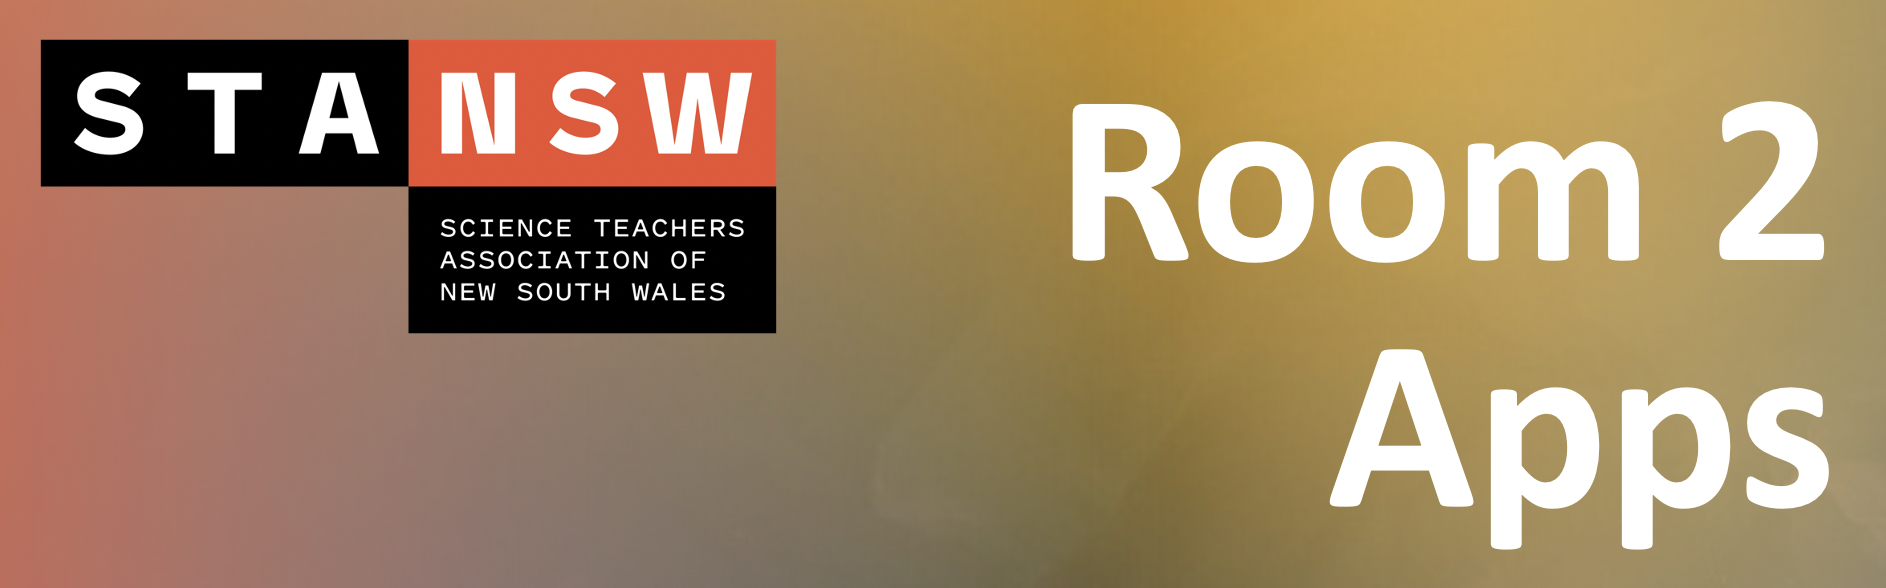
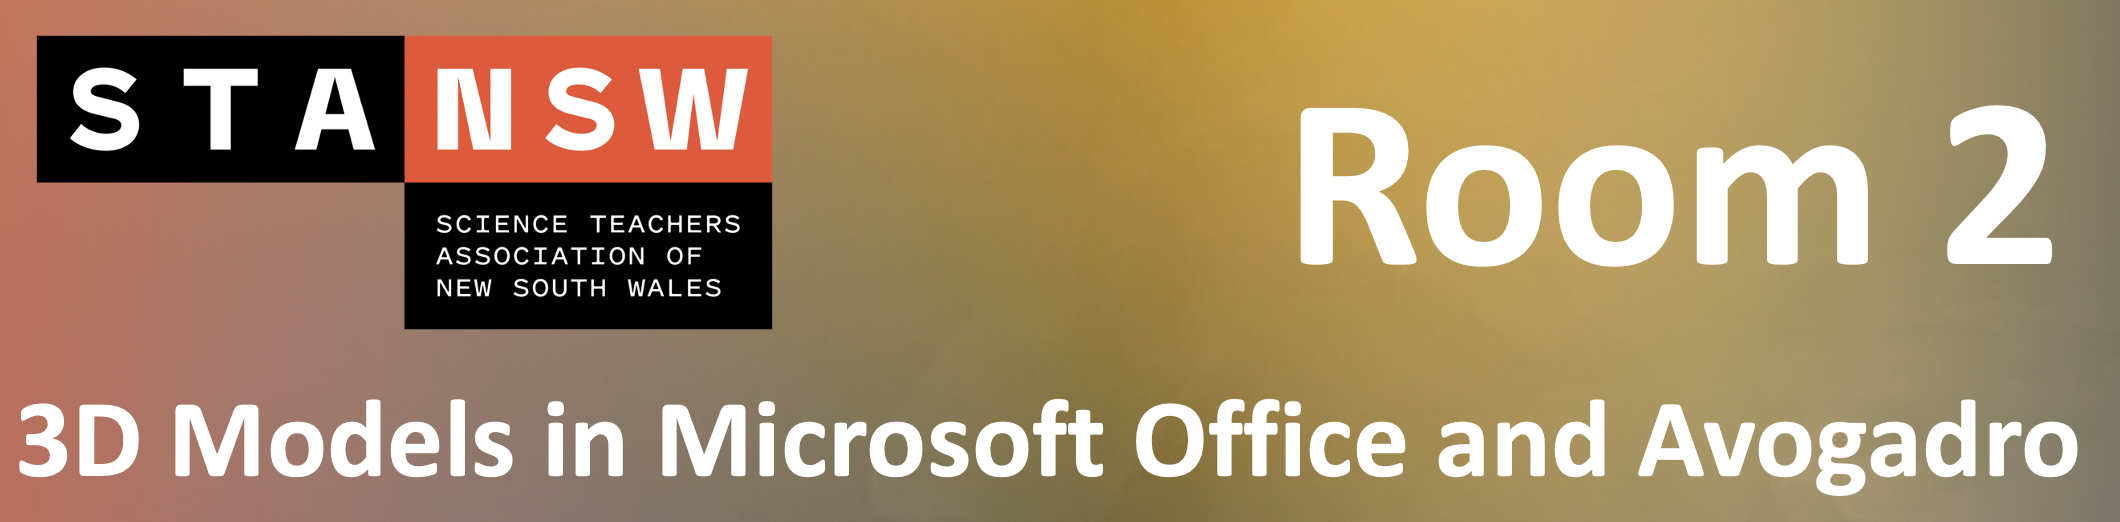
Re-compilation.

diff --git a/docs/meet-the-presenters.html b/docs/meet-the-presenters.html
@@ -101,10 +101,6 @@
 <div id="meet-the-presenters" class="section level1 hasAnchor">
 <h1>Meet The Presenters<a href="meet-the-presenters.html#meet-the-presenters" class="anchor-section" aria-label="Anchor link to header"></a></h1>
 <p><img src="images/Presenters.png" width="947" /></p>
-<div id="reyne-pullen" class="section level2 unlisted unnumbered hasAnchor">
-<h2>Reyne Pullen<a href="meet-the-presenters.html#reyne-pullen" class="anchor-section" aria-label="Anchor link to header"></a></h2>
-<p>Dr Reyne Pullen is currently employed as an Education-focused lecturer in the School of Chemistry, University of Sydney. Recently awarded the 2021 RACI Chemistry Educator of the Year, Reyne has experience in delivering online and blended learning experiences, and designing course-level blended learning models, both at the tertiary level. Reyne has also worked within the secondary education sector, teaching both science and maths.</p>
-</div>
 <div id="jody-moller" class="section level2 unlisted unnumbered hasAnchor">
 <h2>Jody Moller<a href="meet-the-presenters.html#jody-moller" class="anchor-section" aria-label="Anchor link to header"></a></h2>
 <p>Dr Jody Moller (Morgan) is an Education-focused lecturer in the School of Chemistry at the University of Sydney. Jody has been teaching chemistry at a tertiary level since 2004 and was awarded an Outstanding Contributions to Teaching and Learning (OCTAL) Award from the University of Wollongong in 2020. She has extensive experience in the use of modelling tools to enhance student learning in the online environment. Jody is also a qualified high school science teacher, completing her Graduate Diploma in Education in 2007.</p>
@@ -113,13 +109,17 @@
 <h2>Shane Wilkinson<a href="meet-the-presenters.html#shane-wilkinson" class="anchor-section" aria-label="Anchor link to header"></a></h2>
 <p>Dr Shane Wilkinson is an Education-focused lecturer in the School of Chemistry, University of Sydney. He has a keen interest in the adoption of technology to enhance the way we teach and deliver chemistry in both classroom and laboratory environments. An example is augmented reality (AR) and how it can be used as a tool in education or as means of inclusivity for disadvantaged students in STEM subjects. Shane is also adept in the use of “teaching analytics” software to deliver personalised student experiences in large scale teaching environments. He also has a passion for laboratory pedagogy where he has extensive experience in designing remote, blended and practical laboratory coursework with a focus on authentic and/or competency-based laboratory assessments.</p>
 </div>
+<div id="tom-elton" class="section level2 unlisted unnumbered hasAnchor">
+<h2>Tom Elton<a href="meet-the-presenters.html#tom-elton" class="anchor-section" aria-label="Anchor link to header"></a></h2>
+<p>Mr Tom (Thomas) Elton is currently a computer and data science student at the University of Sydney. With a passion in technological innovations in education, he has recently enjoyed collaborating as a research assistant in the School of Chemistry (University of Sydney), where he is putting together a publicly available code package to easily generate 3D molecules in Unity. This aims to significantly speed up the development time when creating VR and AR interactive chemistry lessons.</p>
+</div>
 <div id="stephen-george-williams" class="section level2 unlisted unnumbered hasAnchor">
 <h2>Stephen George-Williams<a href="meet-the-presenters.html#stephen-george-williams" class="anchor-section" aria-label="Anchor link to header"></a></h2>
 <p>Dr Stephen George-Williams is an Education-focused lecturer based at the School of Chemistry, University of Sydney. His research has explored several areas including the purpose of the chemistry teaching laboratory, the relationships built between students and teaching assistants in the teaching laboratory, and the use of virtual reality (VR) to support teaching chemistry in the classroom.</p>
 </div>
-<div id="tom-elton" class="section level2 unlisted unnumbered hasAnchor">
-<h2>Tom Elton<a href="meet-the-presenters.html#tom-elton" class="anchor-section" aria-label="Anchor link to header"></a></h2>
-<p>Mr Tom (Thomas) Elton is currently a computer and data science student at the University of Sydney. With a passion in technological innovations in education, he has recently enjoyed collaborating as a research assistant in the School of Chemistry (University of Sydney), where he is putting together a publicly available code package to easily generate 3D molecules in Unity. This aims to significantly speed up the development time when creating VR and AR interactive chemistry lessons.</p>
+<div id="reyne-pullen" class="section level2 unlisted unnumbered hasAnchor">
+<h2>Reyne Pullen<a href="meet-the-presenters.html#reyne-pullen" class="anchor-section" aria-label="Anchor link to header"></a></h2>
+<p>Dr Reyne Pullen is currently employed as an Education-focused lecturer in the School of Chemistry, University of Sydney. Recently awarded the 2021 RACI Chemistry Educator of the Year, Reyne has experience in delivering online and blended learning experiences, and designing course-level blended learning models, both at the tertiary level. Reyne has also worked within the secondary education sector, teaching both science and maths.</p>
 
 </div>
 </div>

diff --git a/docs/introduction.html b/docs/introduction.html
@@ -121,12 +121,12 @@
 <p><br></p>
 <ul>
 <li><a href="Room-1.html#Room-1">Breakout Room 1</a>: MolView, CheMagic &amp; ChemTube3D - Jody Moller</li>
-<li><a href="Room-2.html#Room-2">Breakout Room 2</a>: Apps - Shane Wilkinson</li>
+<li><a href="Room-2.html#Room-2">Breakout Room 2</a>: 3D Models in Microsoft Office and Avogadro - Shane Wilkinson</li>
 <li><a href="Room-3.html#Room-3">Breakout Room 3</a>: Unity - Tom Elton</li>
 </ul>
 </div>
-<div id="debreif---main-room" class="section level2 unlisted unnumbered hasAnchor">
-<h2>Debreif - Main Room<a href="introduction.html#debreif---main-room" class="anchor-section" aria-label="Anchor link to header"></a></h2>
+<div id="debrief---main-room" class="section level2 unlisted unnumbered hasAnchor">
+<h2>Debrief - Main Room<a href="introduction.html#debrief---main-room" class="anchor-section" aria-label="Anchor link to header"></a></h2>
 <blockquote>
 <p>The session will conclude with a debrief, as we come together one final time.</p>
 </blockquote>

diff --git a/docs/Room-2.html b/docs/Room-2.html
@@ -100,7 +100,7 @@
             <section class="normal" id="section-">
 <div id="Room-2" class="section level1 hasAnchor">
 <h1>Breakout Room 2<a href="Room-2.html#Room-2" class="anchor-section" aria-label="Anchor link to header"></a></h1>
-<p><img src="images/Room_2.png" width="943" /></p>
+<p><img src="images/Room_2.png" width="1060" /></p>
 <p><em>To do…</em></p>
 
 </div>
